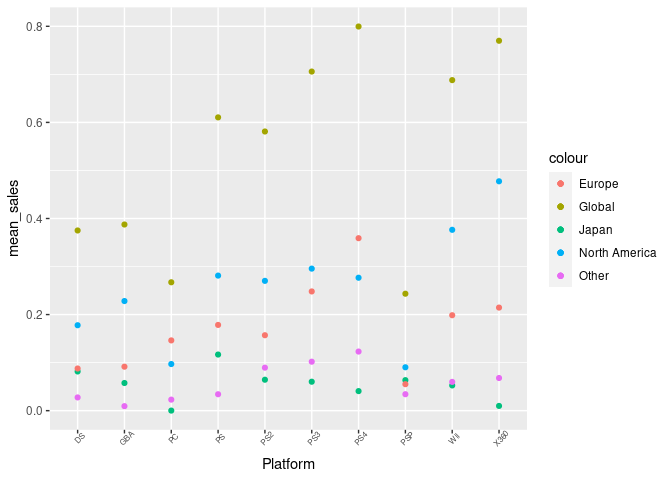
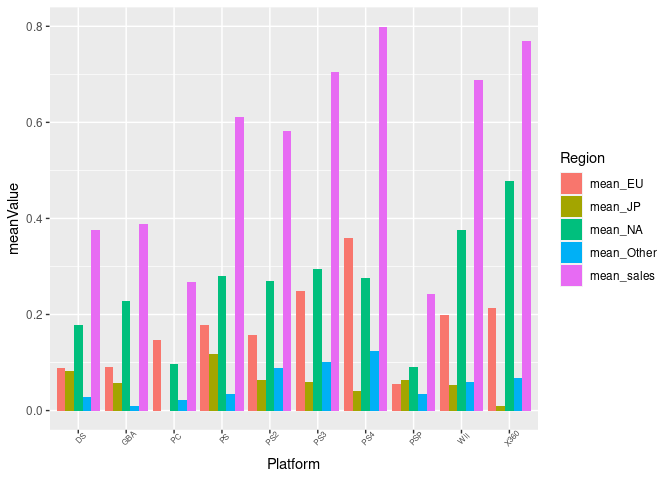
formating of data, ex7 helped

diff --git a/proposal/proposal.md b/proposal/proposal.md
@@ -95,10 +95,6 @@ IN GENERAL, WE ARE ANSWERING THE QUESTION:
 
 It will follow the ensuing format:
 
-To be implemented as a function/script \[top_n(category_1, category2,
-number) -> {data frame of top `number` variables in the `category_1`
-category with the `category_2` category values}
-
 ``` r
 top_genre <- video_game_sales%>%
   group_by(Genre)%>%
@@ -113,6 +109,11 @@ top_platform <- video_game_sales%>%
   slice_max(global, n = 10)
   
 top_platform_list <<- top_platform$Platform
+
+top_games <- video_game_sales%>%
+  group_by(Name)%>%
+  summarise(global = sum(Global_Sales))%>%
+  slice_max(global, n = 50)
 ```
 
 ### First Data
@@ -184,27 +185,24 @@ mean_df_long <- mean_df%>%
   pivot_longer(
     cols = -Platform,
     names_to = "Region",
-    values_to = "mean value"
+    values_to = "meanValue"
   )
 ```
 
 ``` r
-mean_df %>%
-  ggplot(aes(x=Platform))+
-  theme(axis.text.x = element_text(angle = 45, size = 6)) +
-  geom_point(aes(y=mean_sales, colour = "Global"))+
-  geom_point(aes(y=mean_NA, colour = "North America"))+
-  geom_point(aes(y=mean_JP, colour = "Japan"))+
-  geom_point(aes(y=mean_EU, colour = "Europe"))+
-  geom_point(aes(y=mean_Other, colour = "Other"))
+mean_df_long %>%
+  #ggplot(aes(x=Platform))+
+  # geom_point(aes(y=mean_sales, colour = "Global"))+
+  # geom_point(aes(y=mean_NA, colour = "North America"))+
+  # geom_point(aes(y=mean_JP, colour = "Japan"))+
+  # geom_point(aes(y=mean_EU, colour = "Europe"))+
+  # geom_point(aes(y=mean_Other, colour = "Other"))
+  ggplot(aes(x = Platform, y = meanValue, fill = Region, group = Region)) +
+  geom_bar(stat="identity", position='dodge')+
+  theme(axis.text.x = element_text(angle = 45, size = 6))
 ```
 
-![](proposal_files/figure-gfm/mean_df_plot-1.png)<!-- -->
-
-``` r
-  #+ ggplot(aes(x=Platform, y=mean_sales, group = 1))+
-  # geom_bar(stat="identity")
-```
+![](proposal_files/figure-gfm/mean_df_plot-1.png)<!-- --> ### Analysis
 
 From the plot, we can see that, overall, north america contributes the
 most to the global sales of video games across most platforms; excluding
@@ -259,7 +257,7 @@ sample_data %>%
   theme_minimal() 
 ```
 
-    ## Warning: Removed 259 rows containing missing values (geom_point).
+    ## Warning: Removed 261 rows containing missing values (geom_point).
 
 ![](proposal_files/figure-gfm/unnamed-chunk-3-1.png)<!-- -->
 
